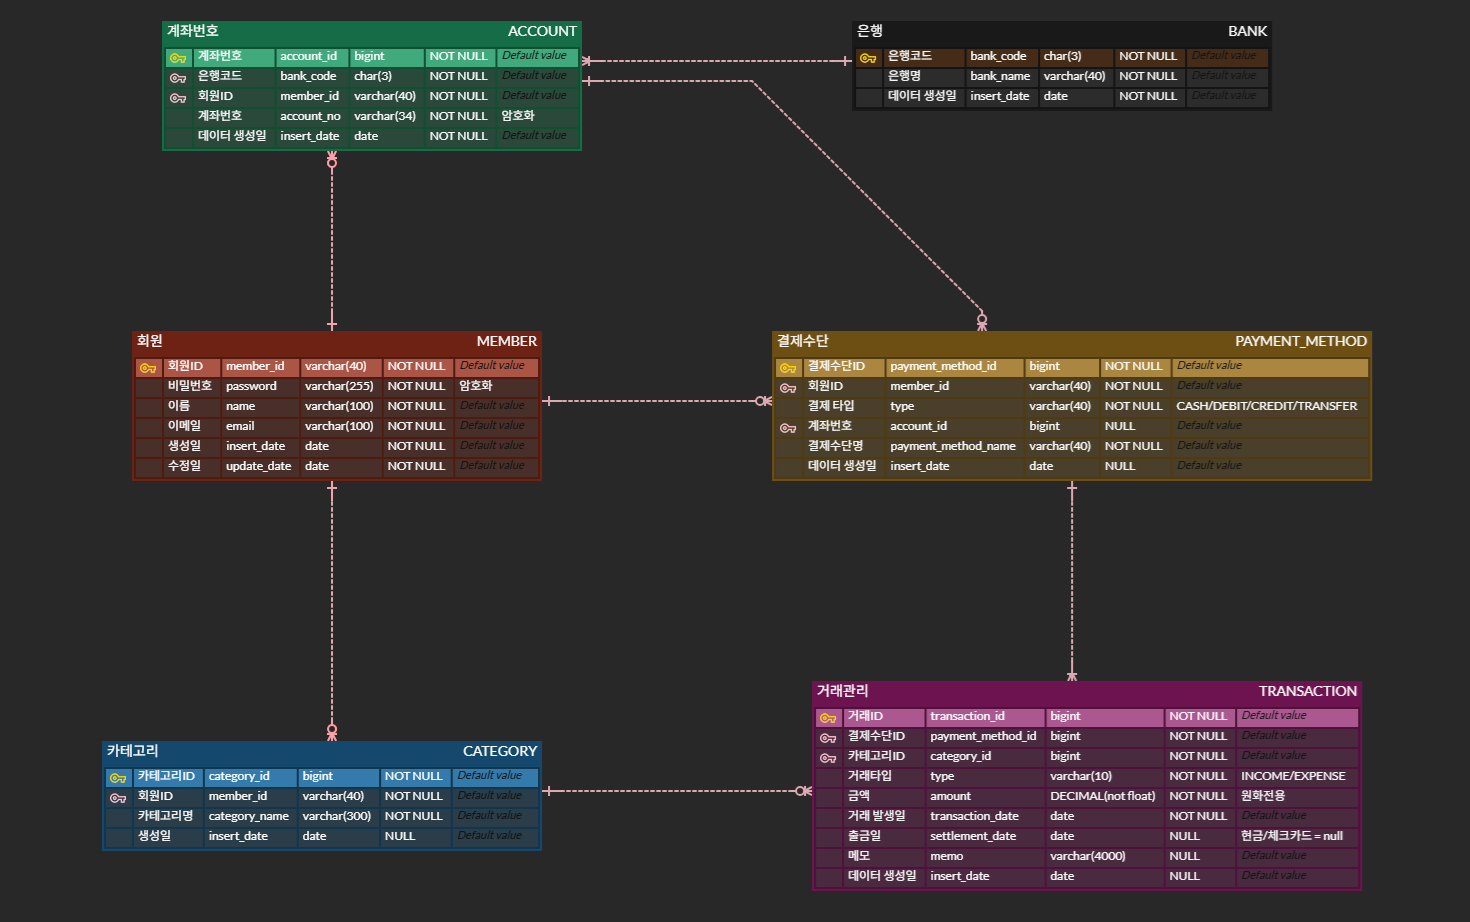
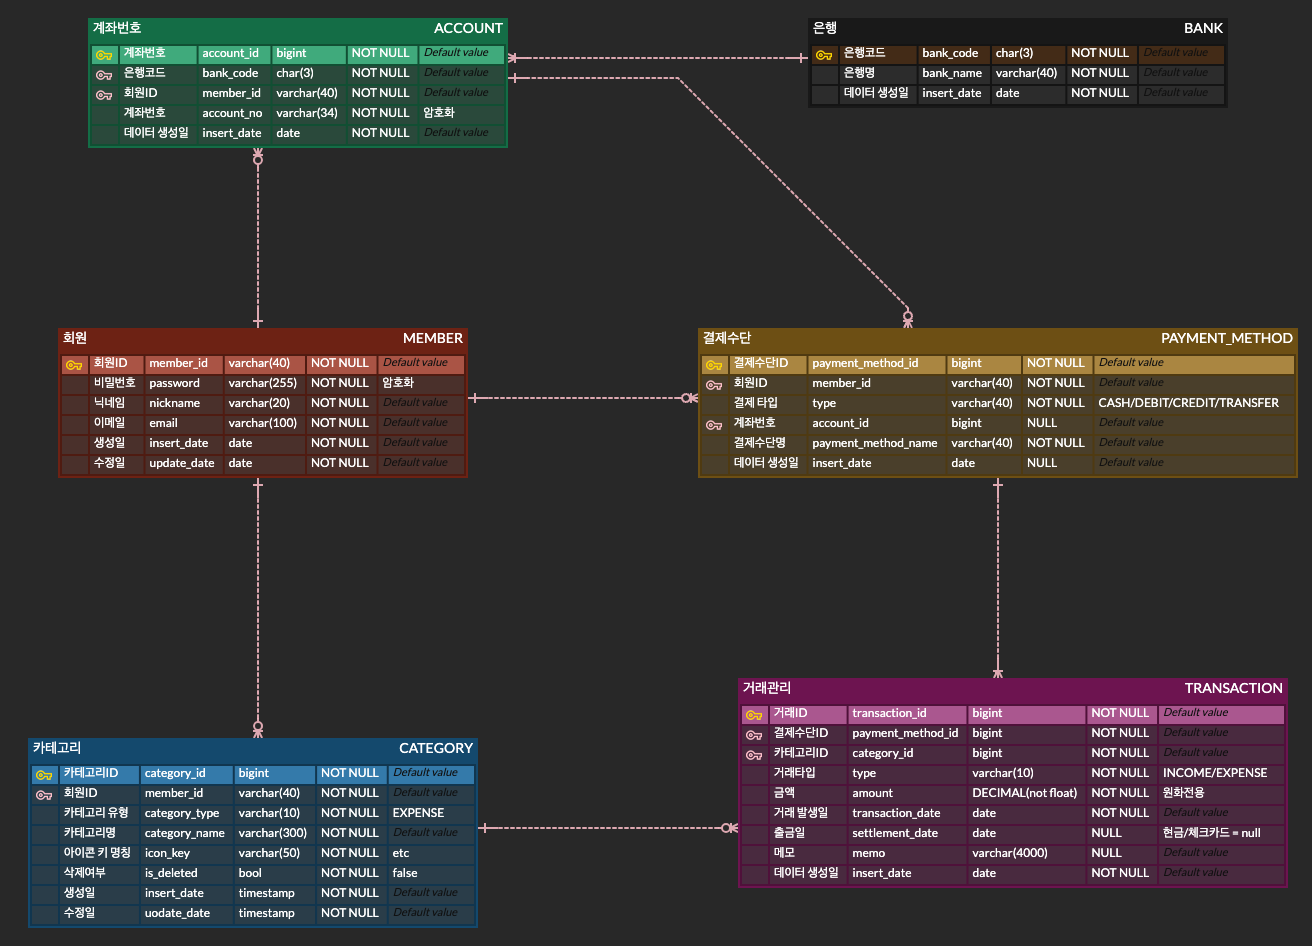
docs: ERD 다이어그램 갱신 및 README 진행 체크 반영

diff --git a/README.md b/README.md
@@ -19,11 +19,11 @@
 ## ✅ 주요 기능
 
 - [x] 회원가입 / 로그인 (JWT + HttpOnly Cookie 기반 인증)
-- [ ] 대시보드
+- [x] 카테고리 관리
 - [ ] 계좌 관리
 - [ ] 결제수단 관리
-- [ ] 카테고리 관리
 - [ ] 거래내역 관리
+- [ ] 대시보드
 - [ ] 이메일 인증
 - [ ] AI 챗봇 (자연어 기반 지출 조회)
 - [ ] OAuth2 소셜 로그인